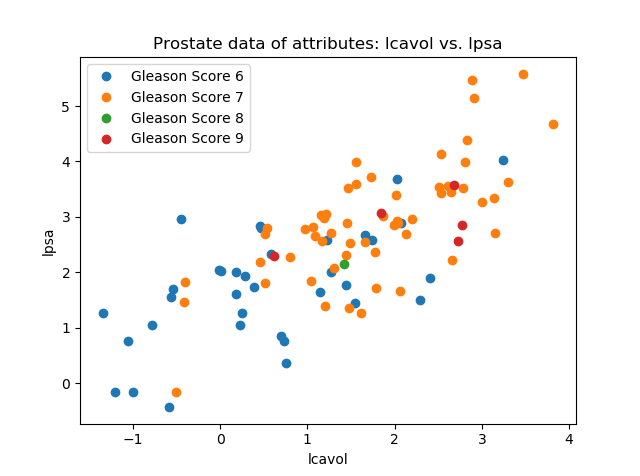
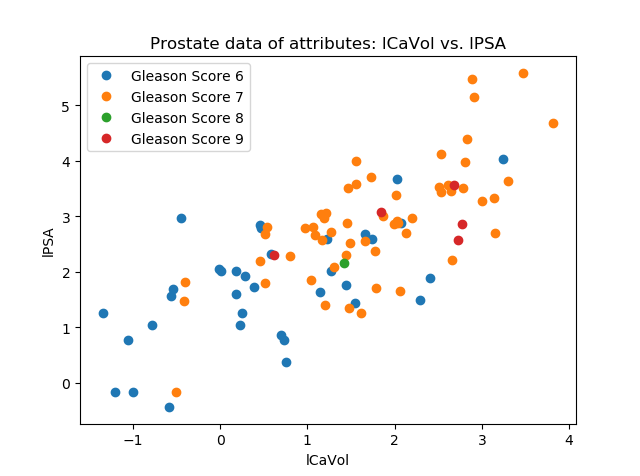
attribute plots and code+excel update

diff --git a/Prostate_data_inspect_greta.py b/Prostate_data_inspect_greta.py
@@ -47,7 +47,7 @@ del myData['train']
 
 # extract class names and encode with integers (dict)
 attributeNames = list(myData.columns.values)
-classLabels = myData['gleason'].values.tolist()
+classLabels = myData['Gleason'].values.tolist()
 classNames = sorted(set(classLabels))
 classDict = dict(zip(classNames, range(4)))
 
@@ -66,8 +66,8 @@ M = len(attributeNames)
 C = len(classNames)
 
 # Data attributes to be plotted
-i = 0
-j = 6
+i = 5
+j = 8
 
 # Plotting the data set (different attributes to be specified)
 f = plt.figure()
